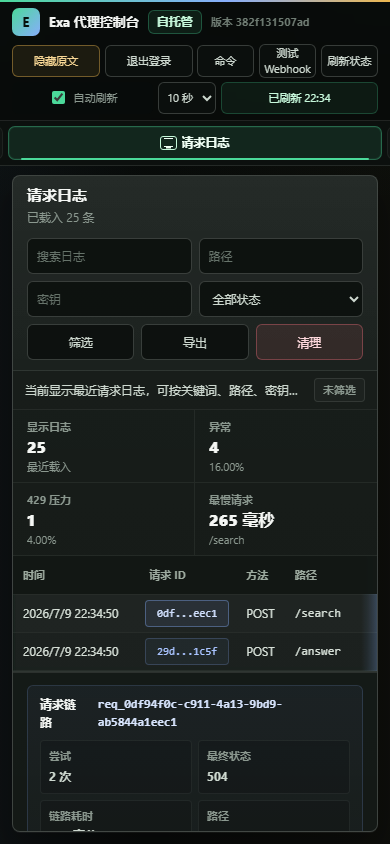
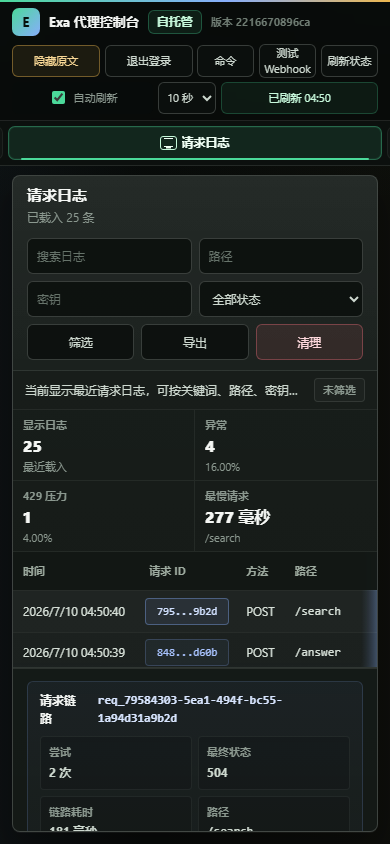
docs: refresh admin console preview

diff --git a/scripts/capture-admin-preview.ts b/scripts/capture-admin-preview.ts
@@ -55,8 +55,20 @@ try {
     await desktopPage.fill('#loginToken', 'admin_local_token');
     await desktopPage.click('#loginButton');
     await desktopPage.waitForSelector('#keysBody tr[data-key-id="key_01_search"]', { state: 'visible' });
-    await desktopPage.locator('#keysBody tr[data-key-id="key_01_search"] button[data-action="select"]').click();
-    await desktopPage.waitForSelector('.details-sticky');
+    await desktopPage.locator('.sidebar .nav-item[data-tab="overview"]').click();
+    await desktopPage.waitForSelector('.tab-panel[data-tab-panel="overview"].active #proxyFlowMap', { state: 'visible' });
+    await desktopPage.waitForFunction(() => {
+      const flow = document.querySelector('#proxyFlowMap')?.textContent || '';
+      const summary = document.querySelector('#proxyFlowSummary')?.textContent || '';
+      const trends = document.querySelector('#trendRecap')?.textContent || '';
+      const alerts = document.querySelector('#alertList')?.textContent || '';
+      return flow.includes('客户端令牌')
+        && flow.includes('Exa 上游')
+        && /最近链路|等待第一条客户端请求|链路尚未闭环/.test(summary)
+        && trends.includes('窗口请求')
+        && trends.includes('峰值桶')
+        && alerts.length > 0;
+    });
     await desktopPage.screenshot({ path: desktopOutputPath, fullPage: false });
     await desktopPage.close();
 

diff --git a/test/demo.test.ts b/test/demo.test.ts
@@ -24,6 +24,10 @@ describe('demo ui script', () => {
     expect(captureScript).toContain('docs/assets/admin-console-mobile.png');
     expect(captureScript).toContain("desktopPage.fill('#loginToken', 'admin_local_token')");
     expect(captureScript).toContain("mobilePage.fill('#loginToken', 'admin_local_token')");
+    expect(captureScript).toContain('.sidebar .nav-item[data-tab="overview"]');
+    expect(captureScript).toContain('#proxyFlowMap');
+    expect(captureScript).toContain('#trendRecap');
+    expect(captureScript).toContain('#alertList');
     expect(captureScript).toContain(".mobile-tab[data-tab=\"logs\"]");
     expect(captureScript).toContain("#tracePanel.is-active, #tracePanel.is-missing");
     expect(captureScript).toContain('key_01_search');
@@ -38,10 +42,12 @@ describe('demo ui script', () => {
 
     expect(readme).toContain('![Admin Console](docs/assets/admin-console.png)');
     expect(readme).toContain('![Mobile Admin Console](docs/assets/admin-console-mobile.png)');
-    expect(readme).toContain('桌面控制台');
+    expect(readme).toContain('桌面运维总览');
+    expect(readme).toContain('代理链路地图');
     expect(readme).toContain('移动端请求日志');
     expect(readme).toContain('npm run capture:preview');
     expect(docsReadme).toContain('npm run capture:preview');
+    expect(docsReadme).toContain('桌面运维总览');
     expect(docsReadme).toContain('assets/admin-console-mobile.png');
     expect(scriptsReadme).toContain('capture-admin-preview.ts');
     expect(scriptsReadme).toContain('admin-console-mobile.png');
@@ -62,8 +68,9 @@ describe('demo ui script', () => {
 
     expect(readme).toContain('一个可自托管的 Exa API 控制平面');
     expect(readme).toContain('项目给你的答案');
-    expect(readme).toContain('Key 池健康、近期请求轨迹和下一步处理建议');
-    expect(readme).toContain('桌面看全局，移动端也能看日志、筛选和链路诊断');
+    expect(readme).toContain('代理链路地图、Key 池健康、近期趋势和告警建议');
+    expect(readme).toContain('桌面预览聚焦概览页');
+    expect(readme).toContain('移动端保留请求日志、筛选和链路诊断路径');
     expect(readme).toContain('纯静态 HTML/CSS/ES Modules');
     expect(readme).toContain('控制台预览');
     expect(readme).toContain('60 秒试用');

diff --git a/.trellis/tasks/07-10-readme-console-preview-refresh/prd.md b/.trellis/tasks/07-10-readme-console-preview-refresh/prd.md
@@ -1,0 +1,34 @@
+# README Console Preview Refresh
+
+## Goal
+
+Improve the GitHub first impression by making the README desktop preview show the strongest current Admin Console view: the Overview tab with the proxy flow map, live health signals, trends, and alerts. Keep mobile preview focused on the request-log trace workflow.
+
+## Background
+
+- `README.md` uses `docs/assets/admin-console.png` and `docs/assets/admin-console-mobile.png` as visible proof of the product UI.
+- `scripts/capture-admin-preview.ts` currently captures desktop after selecting a key detail, while the README copy says desktop shows global operation context.
+- The Overview tab now has a proxy flow map and better first-viewport explanation of client token -> proxy -> key pool -> Exa upstream.
+- Screenshots must remain real rendered output from `npm run capture:preview` and must be tested for existence, dimensions, and non-empty PNG bytes.
+
+## Requirements
+
+- Update the desktop preview capture flow to land on the Overview tab after login and wait for the proxy flow map/trend/alert UI before screenshotting.
+- Keep the mobile preview on the request-log trace path unless a stronger mobile workflow is already available from existing UI.
+- Adjust README/docs copy so the preview labels accurately describe the new screenshot focus.
+- Update tests that pin capture commands, screenshot assets, or README copy.
+- Do not add external assets, fonts, frameworks, or synthetic mockup images.
+
+## Acceptance Criteria
+
+- [x] `npm run capture:preview` regenerates both README screenshots successfully.
+- [x] Desktop screenshot displays the Overview tab and includes the proxy flow map area.
+- [x] README preview copy references Overview/global operations rather than a stale key-detail view.
+- [x] Static tests cover the updated capture flow and screenshot references.
+- [x] `git diff --check`, targeted static tests, and `npm run verify` pass before archive.
+
+## Out Of Scope
+
+- Backend API changes.
+- New screenshot assets beyond the existing two README preview PNGs.
+- Replacing the mobile trace screenshot with an unrelated marketing composition.

diff --git a/README.md b/README.md
@@ -41,9 +41,9 @@ npm run demo:ui
 
 ## 控制台预览
 
-截图由 `npm run capture:preview` 从本地 demo 实时渲染生成，和 `npm run demo:ui` 看到的是同一套静态控制台。桌面看全局，移动端也能看日志、筛选和链路诊断。
+截图由 `npm run capture:preview` 从本地 demo 实时渲染生成，和 `npm run demo:ui` 看到的是同一套静态控制台。桌面预览聚焦概览页：代理链路地图、健康信号、趋势与告警在首屏形成全局运维判断；移动端保留请求日志、筛选和链路诊断路径。
 
-**桌面控制台**
+**桌面运维总览**
 
 ![Admin Console](docs/assets/admin-console.png)
 
@@ -51,7 +51,7 @@ npm run demo:ui
 
 ![Mobile Admin Console](docs/assets/admin-console-mobile.png)
 
-首屏重点展示三类运维信号：Key 池健康、近期请求轨迹和下一步处理建议。控制台是纯静态 HTML/CSS/ES Modules，默认 CSP 不需要放宽，也不依赖外部字体或 CDN。
+桌面首屏重点展示四类运维信号：代理链路地图、Key 池健康、近期趋势和告警建议。移动端截图保留请求日志到链路面板的实操路径。控制台是纯静态 HTML/CSS/ES Modules，默认 CSP 不需要放宽，也不依赖外部字体或 CDN。
 
 ## 为什么值得用
 

diff --git a/docs/README.md b/docs/README.md
@@ -6,4 +6,4 @@
 - `DEPLOYMENT_CHECKLIST.md` - 部署前后检查清单。
 - `openapi.json` - `/_proxy` 探针与管理接口的 OpenAPI 3.1 契约；运行服务会同步暴露为 `/_proxy/openapi.json`。
 - `../scripts/setup-env.mjs` - 源码部署时可用 `npm run setup:env` 生成强随机 `.env`。
-- `assets/admin-console.png` / `assets/admin-console-mobile.png` - README 使用的桌面与移动端真实控制台截图，由 `npm run capture:preview` 从本地 demo 渲染生成。
+- `assets/admin-console.png` / `assets/admin-console-mobile.png` - README 使用的桌面运维总览与移动端请求日志真实控制台截图，由 `npm run capture:preview` 从本地 demo 渲染生成。